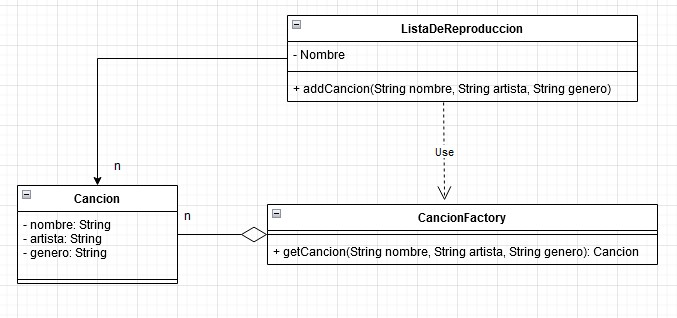
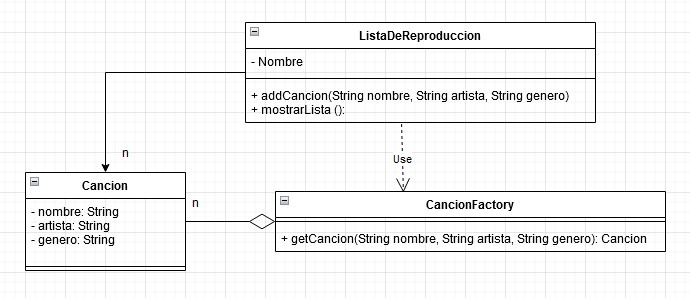
Agrego metodo para mostrar la lista por consola en el trabajo 4

diff --git a/Ejercicio 4/src/Flyweight/ListaDeReproduccion.java b/Ejercicio 4/src/Flyweight/ListaDeReproduccion.java
@@ -31,4 +31,13 @@ public class ListaDeReproduccion {
     public void setLista(List<Cancion> lista) {
         this.lista = lista;
     }
+
+    public void mostrarLista(){
+        System.out.println("Lista de reproduccion: ");
+        int numero = 1;
+        for (Cancion cancion:lista) {
+            System.out.println(numero+"- "+cancion.getNombre());
+            numero++;
+        }
+    }
 }

diff --git a/Ejercicio 4/src/Flyweight/Main.java b/Ejercicio 4/src/Flyweight/Main.java
@@ -17,6 +17,8 @@ public class Main {
         System.out.println(listaDeCanciones.getLista().get(1).getNombre());
         System.out.println(listaDeCanciones.getLista().get(2).getNombre());
         System.out.println(listaDeCanciones.getLista().get(3).getNombre());
+        System.out.println("");
 
+        listaDeCanciones.mostrarLista();
     }
 }
